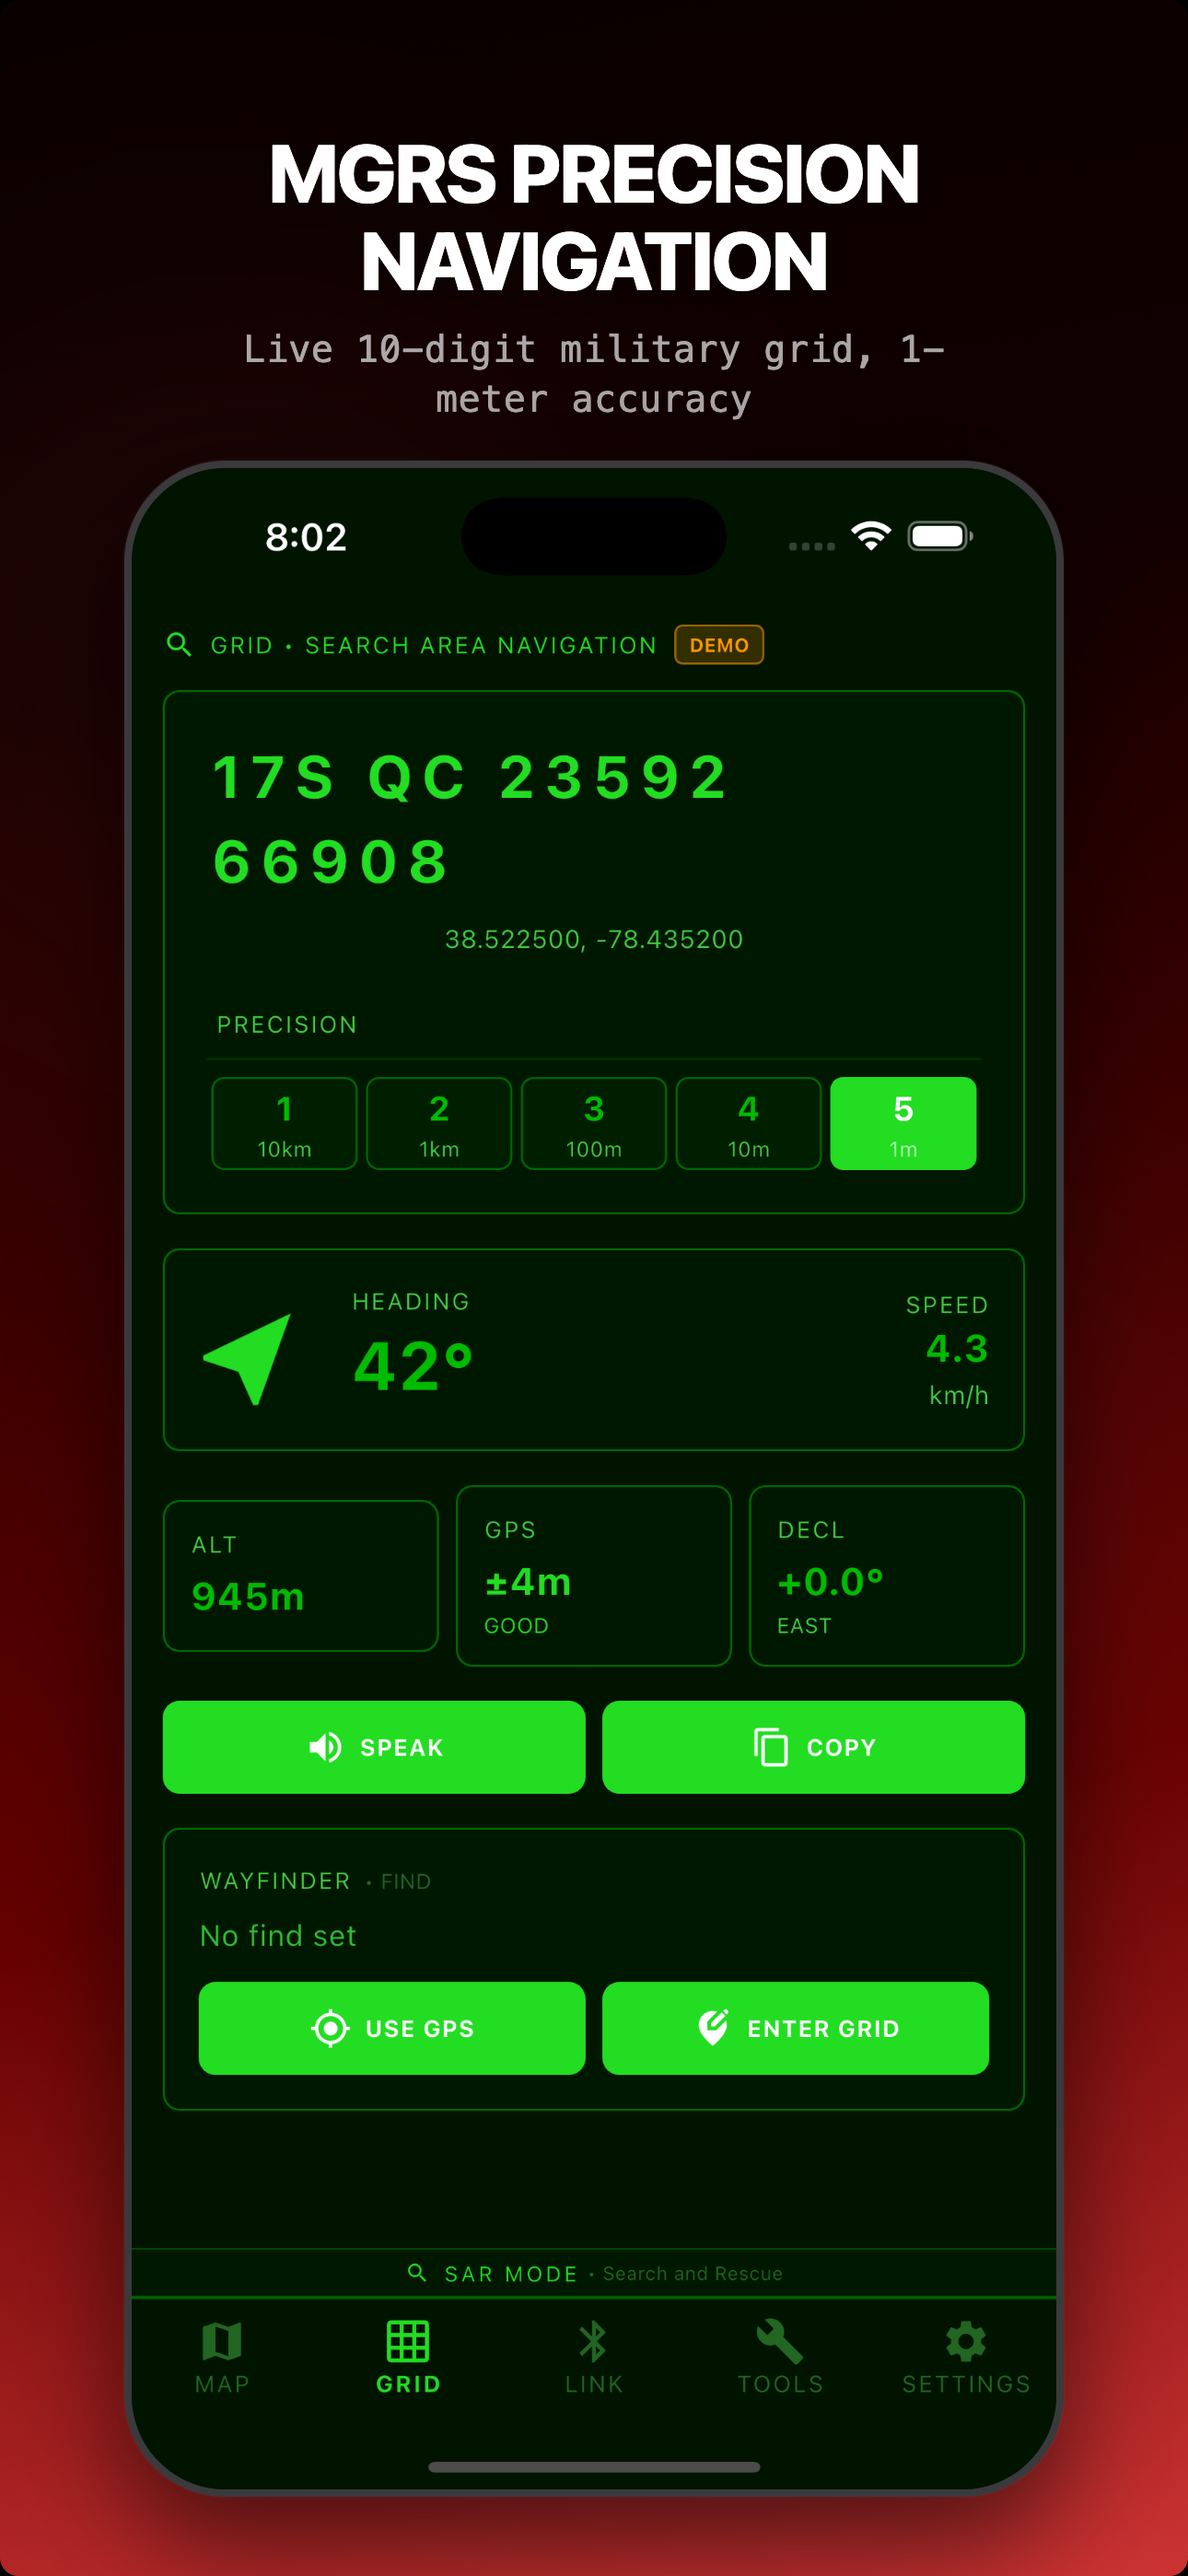
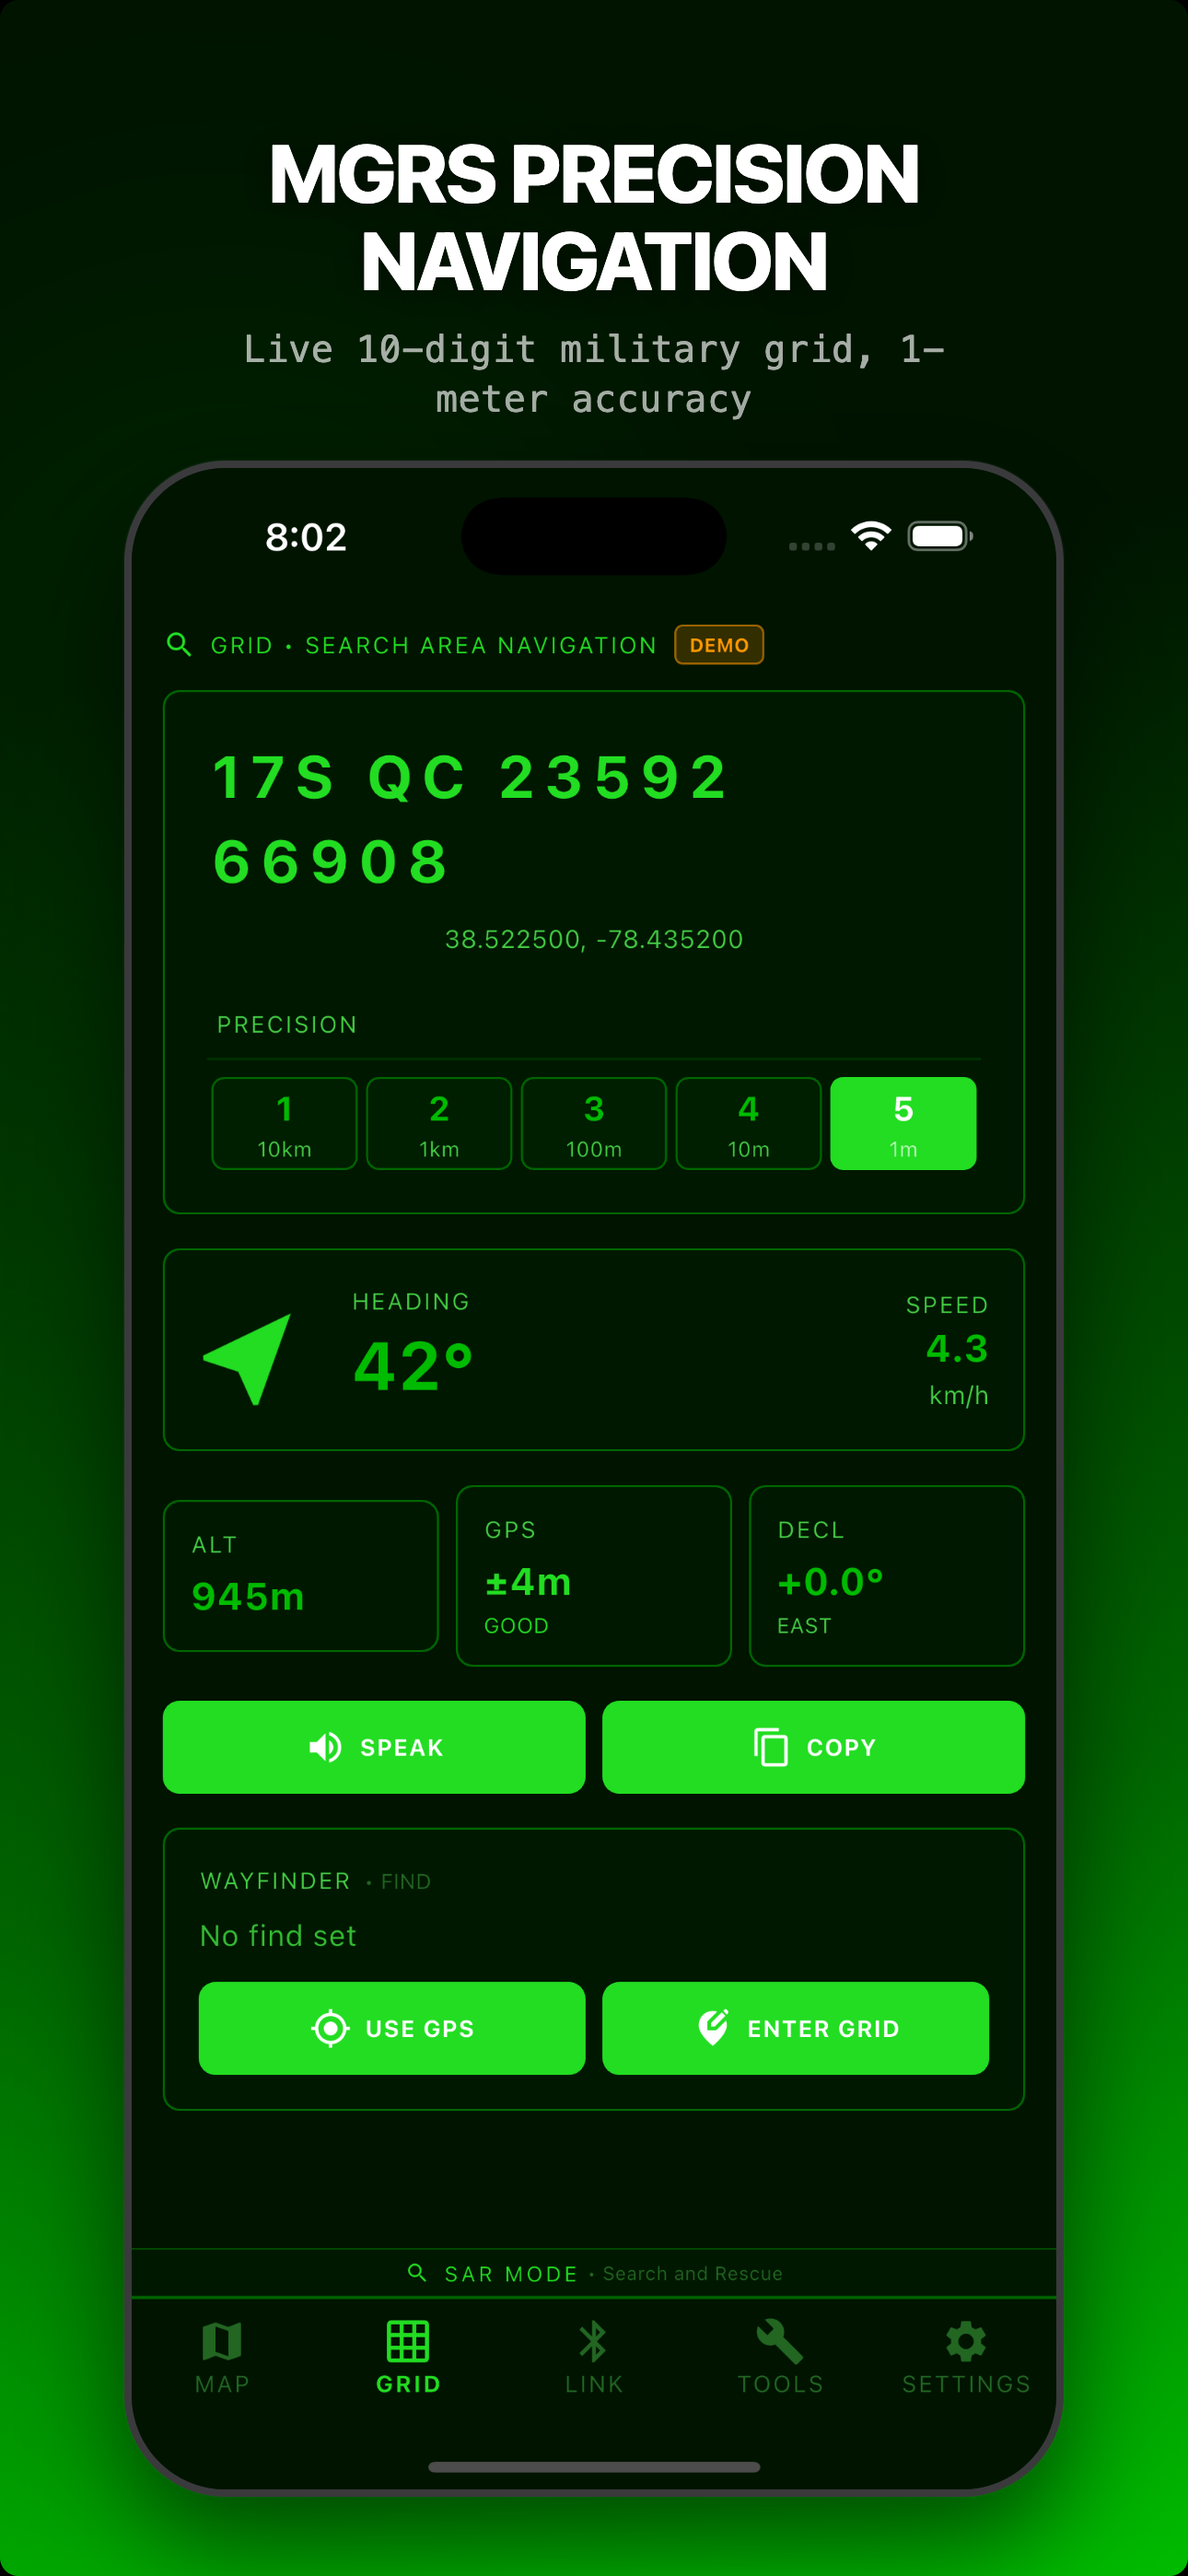
ASC screenshots: 5 unique frames, each different theme + different tab

Changed region(s): [[0.0, 0.0933, 1.0, 1.0]]

diff --git a/tools/screenshots/composite.html b/tools/screenshots/composite.html
@@ -28,17 +28,14 @@
     align-items: center;
   }
 
-  /* Red Grid tactical gradients — dark-to-red theme */
+  /* Each frame gets a unique gradient matching its theme */
   .frame-1 { background: linear-gradient(170deg, #0A0000 0%, #0A0000 20%, #8B0000 75%, #CC3333 100%); }
-  .frame-2 { background: linear-gradient(170deg, #0A0000 0%, #110000 25%, #660000 70%, #CC3333 100%); }
-  .frame-3 { background: linear-gradient(170deg, #0A0000 0%, #0A0000 20%, #991111 75%, #CC3333 100%); }
-  .frame-4 { background: linear-gradient(170deg, #0A0000 0%, #0A0000 30%, #772222 75%, #CC3333 100%); }
-  .frame-5 { background: linear-gradient(170deg, #0A0000 0%, #0A0000 20%, #8B0000 80%, #EE4444 100%); }
-  .frame-6 { background: linear-gradient(170deg, #001400 0%, #001400 25%, #006600 70%, #00BB00 100%); }
-  .frame-7 { background: linear-gradient(170deg, #000A14 0%, #000A14 25%, #005588 70%, #0099DD 100%); }
-  .frame-8 { background: linear-gradient(170deg, #F0F0F0 0%, #E0E0E0 25%, #990000 75%, #CC3333 100%); }
+  .frame-2 { background: linear-gradient(170deg, #001400 0%, #001400 25%, #006600 70%, #00BB00 100%); }
+  .frame-3 { background: linear-gradient(170deg, #000A14 0%, #000A14 25%, #005588 70%, #0099DD 100%); }
+  .frame-4 { background: linear-gradient(170deg, #F0F0F0 0%, #E0E0E0 25%, #990000 75%, #CC3333 100%); }
+  .frame-5 { background: linear-gradient(170deg, #0A0000 0%, #0A0000 20%, #991111 75%, #CC3333 100%); }
 
-  /* Decorative blur shapes */
+  /* Decorative blur */
   .frame::before {
     content: '';
     position: absolute;
@@ -48,25 +45,15 @@
     opacity: 0.07;
     top: 300px;
     left: -200px;
-    background: #CC3333;
     filter: blur(160px);
     pointer-events: none;
   }
-  .frame::after {
-    content: '';
-    position: absolute;
-    width: 700px;
-    height: 700px;
-    border-radius: 50%;
-    opacity: 0.04;
-    bottom: 800px;
-    right: -100px;
-    background: #FF6666;
-    filter: blur(120px);
-    pointer-events: none;
-  }
+  .frame-1::before { background: #CC3333; }
+  .frame-2::before { background: #00CC00; }
+  .frame-3::before { background: #0099DD; }
+  .frame-4::before { background: #CC0000; }
+  .frame-5::before { background: #CC3333; }
 
-  /* Headline text */
   .headline {
     position: relative;
     z-index: 2;
@@ -97,11 +84,9 @@
     letter-spacing: 0.5px;
   }
 
-  /* Day White frame overrides */
-  .frame-8 .headline { color: #111111; text-shadow: none; }
-  .frame-8 .subtitle { color: rgba(0,0,0,0.5); }
+  .frame-4 .headline { color: #111111; text-shadow: none; }
+  .frame-4 .subtitle { color: rgba(0,0,0,0.5); }
 
-  /* Phone mockup — larger for impact */
   .phone {
     position: relative;
     z-index: 2;
@@ -128,60 +113,39 @@
 </head>
 <body>
 
-<!-- 1: Team Map — hero shot -->
+<!-- 1: Red Light MAP -->
 <div class="frame frame-1">
   <div class="headline">Your Team. One Map. No Signal Required.</div>
   <div class="subtitle">Encrypted Bluetooth sync — zero infrastructure</div>
   <div class="phone"><img src="../../screenshots/raw/01_map_team.png" alt="Map with team positions"></div>
 </div>
 
-<!-- 2: MGRS Grid -->
+<!-- 2: NVG Green GRID -->
 <div class="frame frame-2">
   <div class="headline">MGRS Precision Navigation</div>
   <div class="subtitle">Live 10-digit military grid, 1-meter accuracy</div>
   <div class="phone"><img src="../../screenshots/raw/02_grid_mgrs.png" alt="MGRS grid display"></div>
 </div>
 
-<!-- 3: Field Link Session -->
+<!-- 3: Blue Force LINK -->
 <div class="frame frame-3">
   <div class="headline">Field Link — Zero Infrastructure</div>
   <div class="subtitle">AES-256 encrypted peer-to-peer coordination</div>
   <div class="phone"><img src="../../screenshots/raw/03_field_link.png" alt="Field Link session"></div>
 </div>
 
-<!-- 4: 11 Tools -->
+<!-- 4: Day White TOOLS -->
 <div class="frame frame-4">
   <div class="headline">11 Tactical Field Tools</div>
   <div class="subtitle">Dead reckoning, resection, coord converter + 8 more</div>
   <div class="phone"><img src="../../screenshots/raw/04_tools.png" alt="11 tactical tools"></div>
 </div>
 
-<!-- 5: Themes selector -->
+<!-- 5: Red Light SETTINGS -->
 <div class="frame frame-5">
   <div class="headline">4 Tactical Display Themes</div>
   <div class="subtitle">Red Light · NVG Green · Day White · Blue Force</div>
   <div class="phone"><img src="../../screenshots/raw/05_themes.png" alt="Theme selector"></div>
-</div>
-
-<!-- 6: NVG Green map -->
-<div class="frame frame-6">
-  <div class="headline">Night Vision Ready</div>
-  <div class="subtitle">NOD-compatible green phosphor display</div>
-  <div class="phone"><img src="../../screenshots/raw/06_nvg_green.png" alt="NVG Green map"></div>
-</div>
-
-<!-- 7: Blue Force tools -->
-<div class="frame frame-7">
-  <div class="headline">11 Tools In Blue Force</div>
-  <div class="subtitle">Dead reckoning to slope calc — any theme</div>
-  <div class="phone"><img src="../../screenshots/raw/07_blue_force.png" alt="Blue Force tools"></div>
-</div>
-
-<!-- 8: Day White link -->
-<div class="frame frame-8">
-  <div class="headline">High-Visibility Day Mode</div>
-  <div class="subtitle">Full contrast team coordination</div>
-  <div class="phone"><img src="../../screenshots/raw/08_day_white.png" alt="Day White peers"></div>
 </div>
 
 </body>

diff --git a/tools/screenshots/render.js b/tools/screenshots/render.js
@@ -29,9 +29,6 @@ const CAPTIONS = [
   '03_field_link',
   '04_tools',
   '05_themes',
-  '06_nvg_green',
-  '07_blue_force',
-  '08_day_white',
 ];
 
 (async () => {
